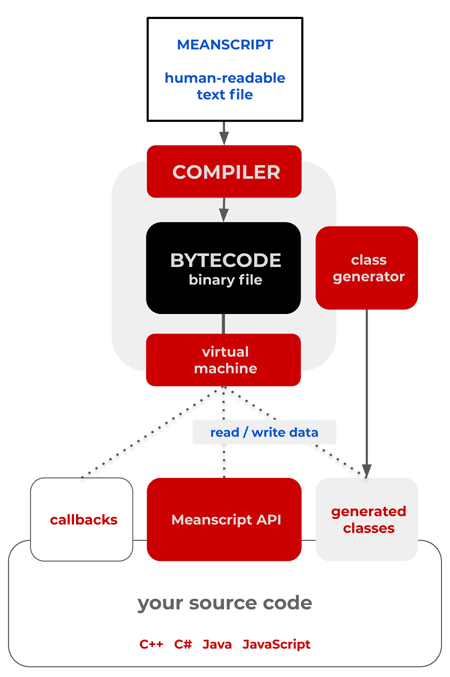
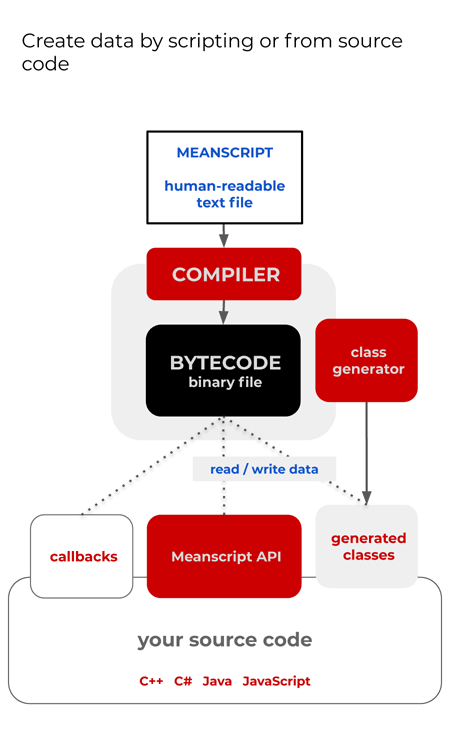
new slides

diff --git a/index.html b/index.html
@@ -11,12 +11,15 @@
   </head>
   <body>
   <center>
-  <img src=slides/frontpage.png><hr width=66%><p>&nbsp;<p>
-  <img src=slides/flow.png><p>&nbsp;<hr width=66%><p>&nbsp;<p>
-  <img src=slides/variables.png><p>&nbsp;<hr width=66%><p>&nbsp;<p>
-  <img src=slides/functions.png><p>&nbsp;<hr width=66%><p>&nbsp;<p class="doc">
+  <img src=slides/frontpage.png><hr width=300px><p>&nbsp;<p>
+  <img src=slides/example.png><p>&nbsp;<hr width=300px><p>&nbsp;<p>
+  <img src=slides/flow.png><p>&nbsp;<hr width=300px><p>&nbsp;<p>
+  <img src=slides/data.png><p>&nbsp;<hr width=300px><p>&nbsp;<p>
+  <img src=slides/create.png><p>&nbsp;<hr width=300px><p>&nbsp;<p>
+  <img src=slides/read.png><p>&nbsp;<hr width=300px><p>&nbsp;<p>
+  <img src=slides/functions.png><p>&nbsp;<hr width=300px><p>&nbsp;<p class="doc">
   Copyright (C) 2020<p>
-  <img src=email.png>
+  <img src=email.png width=300px>
   </center>
   </body>
 </html>
